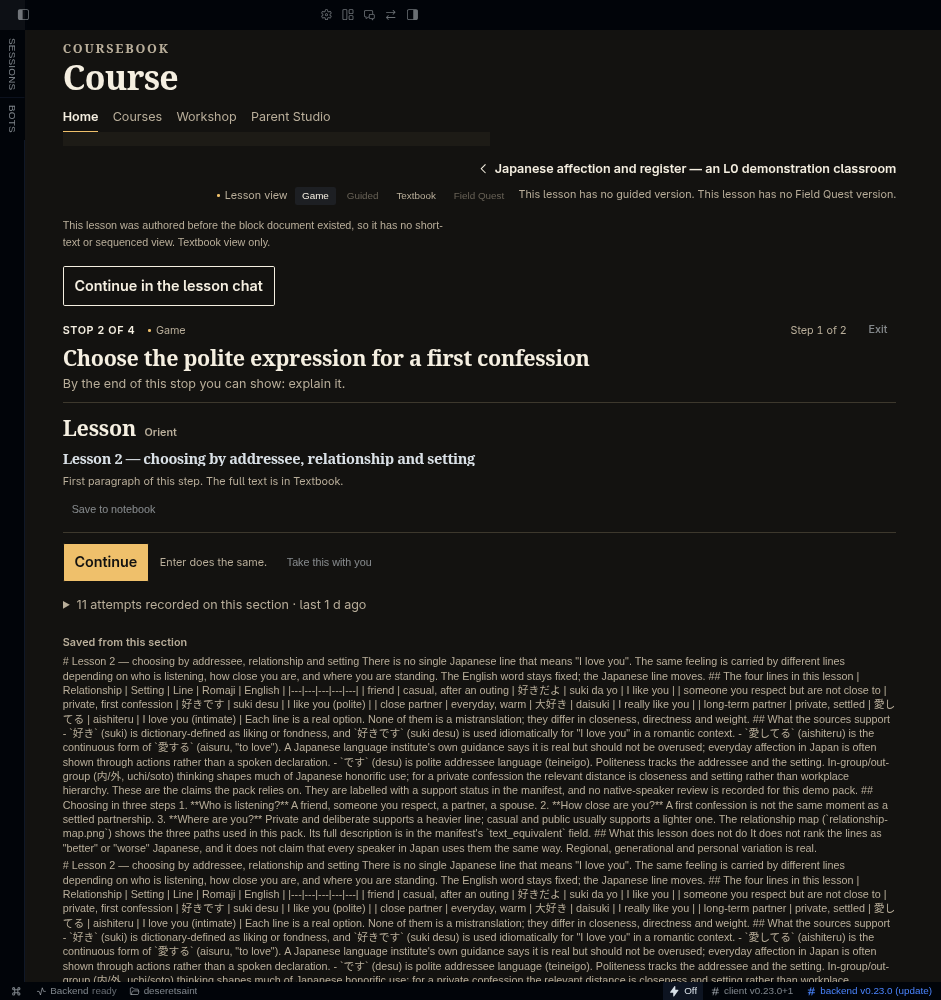
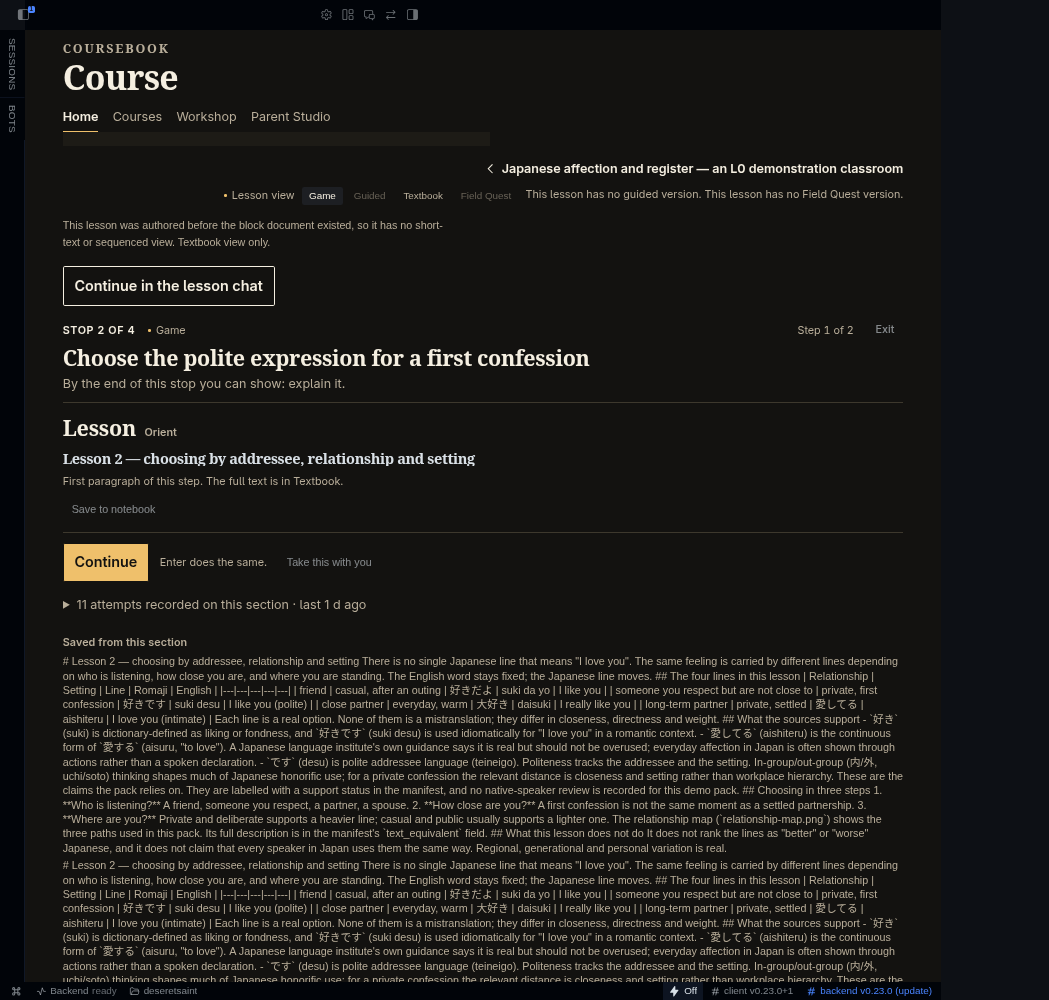
GM-020 packet: state the real H-149 gate, recapture frames at true 1049
Round-1 review asked for packet accuracy, not code. MANIFEST now names the
shipped gate (page && pageReadable && !playerOnScreen) and why it is
deliberately narrower than the card's literal !playerSurface: a parent-led
course or a blockless page mounts no player footer, so the section footer is
the only place the take-with-you action can live there.

The first frames were 941x1000 - the disposable window's native widget
surface - while the label and DOM said 1049. Retaken with
Emulation.setDeviceMetricsOverride(1049x1000) and an explicit 1049x1000
Page.captureScreenshot clip at captureBeyondViewport, with each PNG's IHDR
asserted to 1049x1000. desktop/plugin.js is unchanged.

diff --git a/docs/visual-review/gm-020/MANIFEST.md b/docs/visual-review/gm-020/MANIFEST.md
@@ -7,7 +7,7 @@ cut from `master` `00751f0` and did **not** contain GM-008 or GM-010; the branch
 
 - **module**: `desktop/plugin.js`
[1 lines of base64/hex data omitted]
-- **frames**: `player-footer--1049--dark.png`, `player-footer--1049--light.png`
+- **frames**: `player-footer--1049--dark.png`, `player-footer--1049--light.png` (1049 x 1000 each, verified from each PNG's IHDR)
 - **machine-readable**: `live-evidence.json`
 
 ## What was red, and is now green
@@ -20,44 +20,72 @@ cut from `master` `00751f0` and did **not** contain GM-008 or GM-010; the branch
 
 ## The fixes
 
-1. **H-149.** The section footer's gate is `page && pageReadable && !playerSurface` again, so a
-   rendered player never ships `data-cb-section-footer`; its `Back to the section index` control is
-   no longer conditional (the gate already excludes that case). The take-with-you action did not
-   disappear — it moved into the player's own footer row
+1. **H-149.** The shared section footer is gated on **`page && pageReadable && !playerOnScreen`**
+   (`desktop/plugin.js:19327`), so a rendered player never ships `data-cb-section-footer`; its
+   `Back to the section index` control is no longer conditional (the gate already excludes that
+   case). The take-with-you action did not disappear — it moved into the player's own footer row
    (`data-cb-player-footer`: `Continue | Enter does the same. | Take this with you`). `SectionPage`
    passes it as `player.takeHome`; `LessonDocumentView` forwards it; `LessonPlayer` renders it in
    the footer. Textbook, Guided and Field Quest keep it through the section footer they already
    render, so the action is reachable in every lesson mode with exactly one footer on screen.
+
+   **Why `!playerOnScreen` and not the card's literal `!playerSurface`.** Master gated the section
+   footer on `page && document && !playerSurface`; this branch had loosened it to
+   `page && pageReadable`. Restoring the literal `!playerSurface` would have fixed the guard by
+   deleting the action on every non-`player`-named surface that renders no player footer at all —
+   exactly the surfaces (`parentLed` courses, and a page whose block document is empty) where the
+   section footer is the *only* place `Take this with you` can live. `playerOnScreen`
+   (`playerSurface && !parentLed && document.blocks.length > 0`, `:18886`) is true **iff** a player
+   actually mounts: `LessonDocumentView` renders `EmptyState` and `LessonPlayer` returns `null`
+   when no step renders, and `player` is `null` for a parent-led course. So the narrower gate
+   cannot co-render `data-cb-section-footer` with `data-cb-player-footer`, and it cannot strand
+   the action either. This is a deliberate deviation from the card's fix direction, recorded here
+   so the merge gate is not told a gate exists that the file does not have.
+
 2. **H-151.** The `I did it` report control is built by `CbAction` with `variant: 'secondary'`
    instead of `sdk.Button` with the host accent. `secondary` matches the same action in
    `HomeworkRecord` and keeps the sheet quiet; `primary` would claim the screen's one lamp field.
+   `variant: 'default'` now appears exactly once in the file, in `CB_ACTION_STYLES.primary`
+   (`:15080`).
+
 3. **JSX keys.** All 27 sites move `key` out of the props object into the third positional argument
    of `jsx()`/`jsxs()`. No exception list was added to the guard. Where a map call already passed a
    third argument (the source-span `jsxs`), the props key was simply removed.
 
 `tests/test_desktop_gm008_homework_ui.py::test_homework_action_available_in_all_modes` now also
-asserts the player-footer mount and the `!playerSurface` section gate, so its name no longer
-overstates the player case (quill's note on the parent).
+asserts the player-footer mount and the `!playerOnScreen` section gate, so its name no longer
+overstates the player case (quill's note on the parent). It is still a source-window assertion for
+that case; the behavioural witness for the player is the live frame below.
 
 ## Frames: what moved on screen
 
 The player footer row gained one quiet text action at its end. That is a visible composition
 change, so two frames are committed rather than a "nothing moved" note.
 
-Captured from an isolated Desktop window (`~/.hermes/coursebook-test-gm020h-*`, CDP 9372) against
-a real `cb.rpc` backend on `127.0.0.1:44219`, never the operator's window or profile. Driven, not
-mocked: Coursebook Home → the demonstration course → **Section 2** → **Game** view. The DOM the
-captures were taken from reported:
+Captured from an isolated Desktop window (`~/.hermes/coursebook-test-gm020h-014550`, CDP 9372)
+against a real `cb.rpc` backend on `127.0.0.1:44219`, never the operator's window or profile.
+Driven, not mocked: Coursebook Home → the demonstration course → **Section 2** → **Game** view.
+The DOM the captures were taken from reported:
 
 - `[data-cb-player-footer]` count `1`, `[data-cb-section-footer]` count `0`
 - `[data-cb-homework-action]` present, `data-variant="text"`, and `footer.contains(action)` true
 - exactly one visible `data-variant="default"` control (`Continue`)
-- route overflow `0` at 1049 in both palettes
+- `window.innerWidth` `1049`, route client width `1022`, page overflow `0`, route overflow `0` in both palettes
+- painted route background `rgb(19, 18, 16)` (dark) / `rgb(247, 241, 228)` (light)
 
-| frame | width | root text | palette | player footer | md5 |
+**Capture geometry.** This disposable window's native widget surface is 941 px wide, so the first
+packet's frames measured 941 x 1000 while the DOM and the file names said 1049 — an artifact of
+`Page.captureScreenshot` returning the native surface under an emulated layout, not a different
+layout. The captures were retaken with
+`Emulation.setDeviceMetricsOverride(1049x1000)` plus
+`Page.captureScreenshot{clip: 0,0,1049,1000, captureBeyondViewport: true}`, and each PNG's IHDR is
+asserted to be exactly 1049 x 1000 after the write (`live-evidence.json` → `capture`). Nothing in
+the content changed; only the pixel width of the artifact now matches its label.
+
+| frame | px | root text | palette | player footer | md5 |
 |---|---|---|---|---|---|
-| player-footer--1049--dark.png | 1049 | 16px | dark (host and plugin agree) | `Continue · Enter does the same. · Take this with you` | `271dcee24c89deada584fd231e2f817f` |
-| player-footer--1049--light.png | 1049 | 16px | light (explicit Appearance = Light) | same | `a4838d2bc8fc0e1212b2029b27218c3c` |
+| player-footer--1049--dark.png | 1049 x 1000 | 16px | dark (host and plugin agree) | `Continue · Enter does the same. · Take this with you` | `5bbbdd0d347b535de1193850026755a4` |
+| player-footer--1049--light.png | 1049 x 1000 | 16px | light (explicit Appearance = Light) | same | `e2b9da1cee76f73693db1ee9106180e1` |
 
 ### Declared limits
 
@@ -73,3 +101,11 @@ captures were taken from reported:
   already carries the 460 and 460@200 sheet frames.
 - `audit/visual/m4-visual/audit.json` was regenerated with `python3 scripts/m4v-audit.py` because
   any `plugin.js` edit invalidates its `plugin_sha256` pin; verdicts stayed 15 PASS.
+
+## Round 2 corrections (review round 1, quill)
+
+1. The H-149 paragraph named `!playerSurface`; the shipped gate is `!playerOnScreen`. The real
+   gate, its definition site and the reason for the deliberate narrowing are now stated above.
+2. The frames were 941 px wide under a 1049 label. They are now genuinely 1049 x 1000 and the
+   capture method is recorded. No `desktop/plugin.js` change was made in this round — the plugin
+   sha256 is unchanged from the reviewed implementation.
